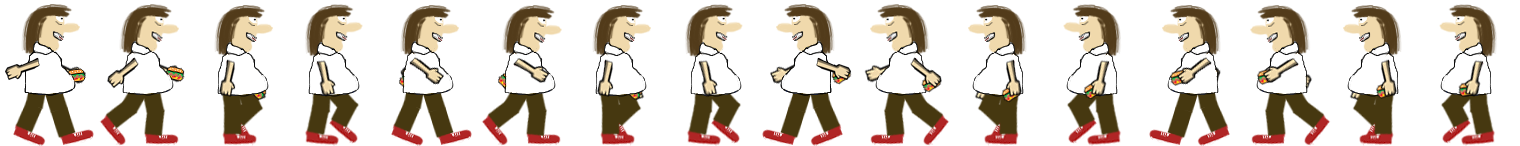
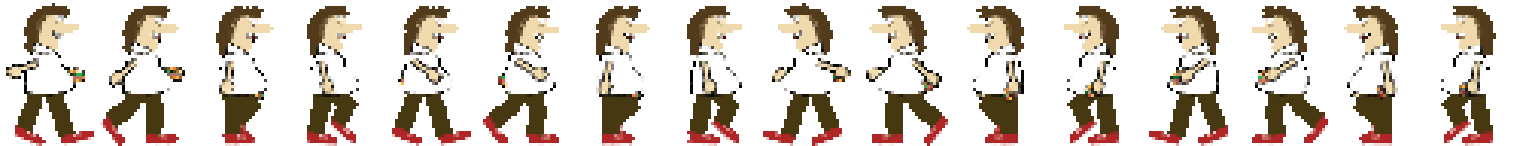
players textur byts nu ut då burgare plockas upp
har även lagt till lite mappar så det blir lättare att hitta

diff --git a/DrunkiBoy/DrunkiBoy/Level/LevelEditor.cs b/DrunkiBoy/DrunkiBoy/Level/LevelEditor.cs
@@ -11,8 +11,8 @@ using System.IO;
 namespace DrunkiBoy
 {
     class LevelEditor : Level
-    {         
-        enum items { Platform, Player, RemovingObject, Torch, Key, Heart, Painkiller, Teleport, Money, Pant }; //osv...
+    {
+        enum items { Platform, Player, RemovingObject, Torch, Key, Heart, Painkiller, Teleport, Money, Pant, Burger }; //osv...
         items selectedItem;
 
         private int editingLevel = 0;
@@ -43,6 +43,7 @@ namespace DrunkiBoy
             menuEntries.Add("F: Teleport");
             menuEntries.Add("M: Money");
             menuEntries.Add("E: Pant");
+            menuEntries.Add("B: Burger");
 
             drawTextTimer = drawTextTimerDefault;
             LoadContent(levelTextFilePath);
@@ -169,7 +170,6 @@ namespace DrunkiBoy
                         if (intersectingPlatform!= null)
                         {
                             objects.Add(new Torch(new Vector2(mouseIsAt.X, intersectingPlatform.BoundingBox.Top - selectedObject.BoundingBox.Height), Textures.torchTex, new Rectangle(0, 0, 60, 53), true, 1, 50));
-
                         }
                         else
                         {
@@ -180,7 +180,6 @@ namespace DrunkiBoy
                         if (intersectingPlatform != null)
                         {
                             objects.Add(new Key(new Vector2(mouseIsAt.X, intersectingPlatform.BoundingBox.Top - selectedObject.BoundingBox.Height), Textures.Key, new Rectangle(0, 0, 35, 64), true, 1, 50));
-
                         }
                         else
                         {
@@ -222,7 +221,6 @@ namespace DrunkiBoy
                         if (intersectingPlatform != null)
                         {
                             objects.Add(new Money(new Vector2(mouseIsAt.X, intersectingPlatform.BoundingBox.Top - selectedObject.BoundingBox.Height), Textures.money, new Rectangle(0, 0, 70, 32), true));
-
                         }
                         else
                         {
@@ -234,13 +232,23 @@ namespace DrunkiBoy
                         if (intersectingPlatform != null)
                         {
                             objects.Add(new Pant(new Vector2(mouseIsAt.X, intersectingPlatform.BoundingBox.Top - selectedObject.BoundingBox.Height), Textures.pant, new Rectangle(0, 0, 33, 77), true));
-
                         }
                         else
                         {
                             objects.Add(new Pant(new Vector2(mouseIsAt.X, mouseIsAt.Y), Textures.pant, new Rectangle(0, 0, 33, 77), true));
                         }
 
+                        break;
+
+                    case items.Burger:
+                        if (intersectingPlatform != null)
+                        {
+                            objects.Add(new Burger(new Vector2(mouseIsAt.X, intersectingPlatform.BoundingBox.Top - selectedObject.BoundingBox.Height), Textures.hamburgare, true));
+                        }
+                        else
+                        {
+                            objects.Add(new Burger(new Vector2(mouseIsAt.X, mouseIsAt.Y), Textures.hamburgare, true));
+                        }
                         break;
                 }
                 saved = false;
@@ -337,6 +345,11 @@ namespace DrunkiBoy
             {
                 selectedItem = items.Pant;
                 selectedObject = new Pant(new Vector2(mouseState.X, mouseState.Y), Textures.pant, new Rectangle(0, 0, 33, 77), true);
+            }
+            if (KeyMouseReader.KeyPressed(Keys.B))
+            {
+                selectedItem = items.Burger;
+                selectedObject = new Burger(new Vector2(mouseState.X, mouseState.Y), Textures.hamburgare, true);
             }
         }
 

diff --git a/DrunkiBoy/DrunkiBoy/Level/Items/ItemManager.cs b/DrunkiBoy/DrunkiBoy/Level/Items/ItemManager.cs
@@ -18,6 +18,7 @@ namespace DrunkiBoy
         public List<Teleport> teleports = new List<Teleport>();
         public List<Money> moneys = new List<Money>();
         public List<Pant> pants = new List<Pant>();
+        public List<Burger> burgers = new List<Burger>();
         public ItemManager()
         {
 
@@ -54,7 +55,10 @@ namespace DrunkiBoy
         {
             teleports.Add(teleport);
         }
-        
+        public void AddBurger(Burger burger)
+        {
+            burgers.Add(burger);
+        }
         public void Update(GameTime gameTime, Player player)
         {
             UpdatePlatforms(player);
@@ -65,7 +69,7 @@ namespace DrunkiBoy
             UpdateTeleport(gameTime);
             UpdateMoney(gameTime, player);
             UpdatePant(gameTime, player);
-            
+            UpdateBurgers(gameTime, player);
             
         }
         private void UpdatePant(GameTime gameTime, Player player)
@@ -149,6 +153,19 @@ namespace DrunkiBoy
                 torchs.Update(gameTime);
             }
         }
+        private void UpdateBurgers(GameTime gameTime, Player player)
+        {
+            foreach (Burger burger in burgers)
+            {
+                if (burger.DetectPixelCollision(player))
+                {
+                    burgers.Remove(burger);
+                    player.tex = Textures.player_burger;
+                    break;
+                }
+            }
+        }
+
         public virtual void Draw(SpriteBatch spriteBatch)
         {
             foreach (Platform platform in platforms)
@@ -183,9 +200,10 @@ namespace DrunkiBoy
             {
                 spriteBatch.Draw(pant.tex, pant.pos, pant.srcRect, Color.White, 0, Vector2.Zero, 1f, SpriteEffects.None, 0);
             }
-               
-               
-
+            foreach (Burger burger in burgers)
+            {
+                spriteBatch.Draw(burger.tex, burger.pos, burger.srcRect, Color.White, 0, Vector2.Zero, 1f, SpriteEffects.None, 0);
+            }
         }
         private void UpdatePlatforms(Player player)
         {

diff --git a/DrunkiBoy/DrunkiBoy/Level/Level.cs b/DrunkiBoy/DrunkiBoy/Level/Level.cs
@@ -92,7 +92,7 @@ namespace DrunkiBoy
                 }
                 else if (temp[0] == "player")
                 {
-                    player = new Player(new Vector2(Convert.ToInt16(temp[1]), Convert.ToInt16(temp[2])), Textures.player_burger, new Rectangle(0, 0, 95, 146), true, 8, 80);
+                    player = new Player(new Vector2(Convert.ToInt16(temp[1]), Convert.ToInt16(temp[2])), Textures.player, new Rectangle(0, 0, 95, 146), true, 8, 80);
                         objects.Add(player);
                 }
                 else if (temp[0] == "torch")
@@ -135,6 +135,12 @@ namespace DrunkiBoy
                     itemManager.AddPant(new Pant(new Vector2(Convert.ToInt16(temp[1]), Convert.ToInt16(temp[2])), Textures.pant, new Rectangle(0, 0, 33, 77), true));
 
                     objects.Add(new Money(new Vector2(Convert.ToInt16(temp[1]), Convert.ToInt16(temp[2])), Textures.money, new Rectangle(0, 0, 33, 77), true));
+                }
+                else if (temp[0] == "burger")
+                {
+                    itemManager.AddBurger(new Burger(new Vector2(Convert.ToInt16(temp[1]), Convert.ToInt16(temp[2])), Textures.hamburgare, true));
+
+                    objects.Add(new Burger(new Vector2(Convert.ToInt16(temp[1]), Convert.ToInt16(temp[2])), Textures.hamburgare, true));
                 }
             }
             sr.Close();

diff --git a/DrunkiBoy/DrunkiBoy/Level/Bullets/Bullet.cs b/DrunkiBoy/DrunkiBoy/Level/Bullets/Bullet.cs
@@ -14,12 +14,13 @@ namespace DrunkiBoy
     {
         private Vector2 velocity;
         private float skottRange;
-        public Bullet(Vector2 pos,Vector2 velocity, Texture2D tex, bool isActive, float skottRange) : base(pos, tex, isActive)
+        public Bullet(Vector2 pos,Vector2 velocity, Texture2D tex, bool isActive, float skottRange) : 
+            base(pos, tex, isActive)
         {
             this.velocity = velocity;
             this.skottRange = skottRange;
         }
-        public void Update(GameTime gameTime)
+        public override void Update(GameTime gameTime)
         {                        
             pos = pos + velocity;
 
@@ -28,11 +29,6 @@ namespace DrunkiBoy
             {
                 isActive = false;
             }
-
-        }
-        public void Draw(SpriteBatch spriteBatch)
-        {
-            base.Draw(spriteBatch);
         }
     }
 }

diff --git a/DrunkiBoy/DrunkiBoy/Level/AnimatedObject.cs b/DrunkiBoy/DrunkiBoy/Level/AnimatedObject.cs
@@ -30,7 +30,7 @@ namespace DrunkiBoy
             facingSrcRects = new Rectangle[2] { new Rectangle(nrFrames * srcRect.Width, srcRect.Y, srcRect.Width, srcRect.Height), srcRect };
         }
 
-        public virtual void Update(GameTime gameTime)
+        public override void Update(GameTime gameTime)
         {
             if (!(this is Player)) //Player sköter sin egen nedräkning i och med att den bara ska räkna när player rör sig. Andra objekt animeras hela tiden.
                 timeTilNextFrame -= gameTime.ElapsedGameTime.TotalMilliseconds; //Animation time counter

diff --git a/DrunkiBoy/DrunkiBoy/Level/Items/Burger.cs b/DrunkiBoy/DrunkiBoy/Level/Items/Burger.cs
@@ -1,0 +1,19 @@
+using System;
+using System.Collections.Generic;
+using System.Linq;
+using System.Text;
+using Microsoft.Xna.Framework;
+using Microsoft.Xna.Framework.Graphics;
+
+
+namespace DrunkiBoy
+{
+    class Burger : GameObject
+    {
+        public Burger(Vector2 pos, Texture2D tex, bool isActive)
+            : base(pos, tex, isActive)
+        {
+            this.type = "burger";
+        }
+    }
+}

diff --git a/DrunkiBoy/DrunkiBoy/Level/Bullets/HamburgareVapen.cs b/DrunkiBoy/DrunkiBoy/Level/Bullets/HamburgareVapen.cs
@@ -13,7 +13,7 @@ namespace DrunkiBoy
     {
 
          public HamburgareVapen(Vector2 pos, Vector2 velocity)
-            : base(pos, velocity,Textures.hamburgare, true, 200)    // sätt texturen till hamburgare , 200 för hur långt det åker
+            : base(pos, velocity, Textures.hamburgare, true, 200)    // sätt texturen till hamburgare , 200 för hur långt det åker
         {
 
         }               

diff --git a/DrunkiBoy/DrunkiBoy/GUI/ActivePowerUpDisplay.cs b/DrunkiBoy/DrunkiBoy/GUI/ActivePowerUpDisplay.cs
@@ -30,7 +30,7 @@ namespace DrunkiBoy
             }
         }
 
-        public virtual void Update(GameTime gameTime)
+        public override void Update(GameTime gameTime)
         {
             timeTilNextFrame -= gameTime.ElapsedGameTime.TotalMilliseconds; //Animation time counter
 
